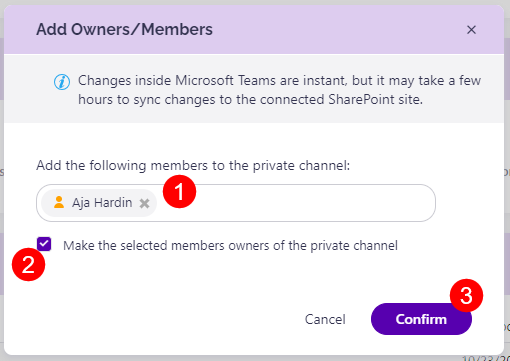
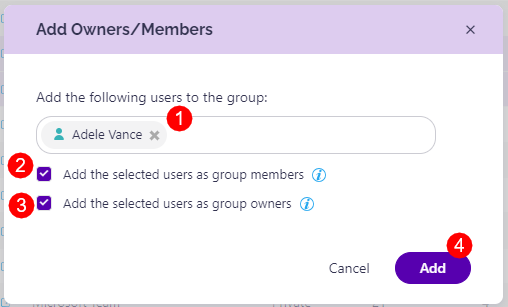
update article

diff --git a/access-management/manage-private-channels.md b/access-management/manage-private-channels.md
@@ -1,16 +1,16 @@
 ---
-description: This article provides information on managing who has access or is an owner of private channels in Microsoft Teams.
+description: This article provides information on managing who has access to or is an owner of private channels in Microsoft Teams.
 ---
 
 # Manage Private Channels Access
 
-This article will help set up and manage who the owners and members are for private channels in Microsoft Teams. 
+This article helps you set up and manage who the owners and members are for private channels in Microsoft Teams. 
 
 {% hint style="warning" %}
-**Please note!**  
+**Please note!**  
 The following users can manage private channels access:
-  * **Global administrator**
-  * **Private channel owner**
+  * **Global administrator**
+  * **Private channel owner**
 {% endhint %}
 
 There are several ways to manage and change the access to private channels from within Syskit Point.
@@ -30,54 +30,60 @@ Another way to access private channels is through the **Sites screen** by taking
 
 * **Click the Sites tile (1)**; located on the home screen of Syskit Point. 
 * **Select the site to manage (2)**; the private channel site is marked with a lock symbol near its name. 
-  * Clicking the selected site opens the details screen.
-* **Under General Information (3)** click the channel name shown under **Related Channel (4)**.  
-  * This opens the details screen of the private channel.
+  * Clicking the selected site opens the details screen.
+* **Under General Information (3)** click the channel name shown under **Related Channel (4)**.  
+  * This opens the details screen of the private channel.
 
-  
+  
 ![Private Channels Access - Sites](../.gitbook/assets/manage-private-channels-sites-access.png)
 
 ## Private Channels Access Options
 
 When the **private channel details screen** opens, two options are listed on the right side of the screen under **Manage**.
 
- * **Add Owners/Members (1)**; allows adding new members to the private channel. The new members can also be set as owners.
- * **Change Owners (2)**; provides the option to remove current owners or promote current members to owners. 
+ * **Add Owners/Members (1)**; allows adding new members to the private channel as well as assigning owners. 
+   * The new members can be set as owners; however **you can also set a user as an owner but not add them as a member**. 
+   * If a user is **set as an owner or a workspace** that they are not a member of, **they are able to complete administrative actions** on the workspace but are **not able to access group content** and chats. 
+ * **Change Owners (2)**; provides the option to remove current owners or promote current members to owners. 
 
- ![Manage Private Channels - Options Panel](../.gitbook/assets/manage-private-channels-options-side.png)
+ ![Manage Private Channels - Options Panel](../.gitbook/assets/manage-private-channels-options-side.png)
 
 Clicking the **Add Owners/Members** button opens a pop-up that provides the following options: 
 
- * **Add members to private channel (1)**; enter the names of the users that should be added as members to the private channel.
- * **Make the selected members owners (2)**; clicking this check box will save the members entered above as the owners of the private channel. 
- * **Confirm when finished (3)**; when all the selected new members have been entered, confirm to save the changes. 
-   * After confirming, a **notification** is sent to **acknowledge** the new changes. 
-   * If the change is unsuccessful, the notification states that the action was **completed with errors** and has **failed**. 
-   * Clicking **check details** will redirect to the **Action Details screen** with a detailed log of all changes. 
+ * **Add members to private channel (1)**; enter the names of the users that should be added as members to the private channel.
+ * **Add the selected users as group members (2)**; clicking this check box saves the user(s) entered above as members of the private channel. 
+   * Members can access everything in the group. 
+ * **Add the selected users as group owners (3)**; clicking this check box saves the user(s) entered above as owners of the private channel. 
+   * Owners manage and handle administrative tasks for the workspace. 
+   * If a user is added only as an owner and not a member, they are able to complete administrative tasks but cannot access group content and chats. 
+ * **Add when finished (4)**; when all the new members and/or owners have been selected, click Add to save the changes. 
+   * After confirming, a **notification** is sent to **acknowledge** the new changes. 
+   * If the change is unsuccessful, the notification states that the action was **completed with errors** and has **failed**. 
+   * Clicking **check details** will redirect to the **Action Details screen** with a detailed log of all changes. 
 
 {% hint style="warning" %}
-**Please note!**  
+**Please note!**  
 To add members to a private channel, the selected user must already be a member of the Microsoft Teams where the private channel is located. 
 {% endhint %}
 
- ![Manage Private Channels - Add Owners/Members options](../.gitbook/assets/manage-private-channels-add-owners-members.png)
+ ![Manage Private Channels - Add Owners/Members options](../.gitbook/assets/manage-private-channels-add-owners-members.png)
 
 Clicking the **Change Owners** button opens a pop-up that provides the following options: 
 
- * **Set the owners (1)**; there are two options available here: 
-   * Enter the names of the users that **should be set as owners** of the private channel.
-   * **Remove the current owners** by clicking the x on the right side of their name. 
- * **Confirm when finished (2)**; when all the changes have been made, confirm to save them. 
-   * After confirming, a **notification** is sent to **acknowledge** the new changes. 
-   * If the change is unsuccessful, the notification states that the action was **completed with errors** and has **failed**. 
-   * Clicking **check details** will redirect to the **Action Details screen** with a detailed log of all changes. 
+ * **Set the owners (1)**; there are two options available here: 
+   * Enter the names of the users that **should be set as owners** of the private channel.
+   * **Remove the current owners** by clicking the x on the right side of their name. 
+ * **Confirm when finished (2)**; when all the changes have been made, confirm to save them. 
+   * After confirming, a **notification** is sent to **acknowledge** the new changes. 
+   * If the change is unsuccessful, the notification states that the action was **completed with errors** and has **failed**. 
+   * Clicking **check details** will redirect to the **Action Details screen** with a detailed log of all changes. 
 
-  {% hint style="warning" %}
-**Please note!**  
+  {% hint style="warning" %}
+**Please note!**  
 To set owners of a private channel, the selected user must already be a member of the Microsoft Teams where the private channel is located. 
 {% endhint %}
 
- ![Manage Private Channels - Change Owners options](../.gitbook/assets/manage-private-channels-change-owners.png)
+ ![Manage Private Channels - Change Owners options](../.gitbook/assets/manage-private-channels-change-owners.png)
 
 
 ### Manage Member and Owner Status
@@ -85,13 +91,13 @@ To set owners of a private channel, the selected user must already be a member o
 Members and Owners can also be managed through the **Members tile (1)** located lower on the private channel screen. 
 
 The **Members tile (1)** shows a list of all members and owners available, and their status can be seen under the **Role column (2)**.
-  * **Selecting an Owner (3)** provides two options on the right side of the screen: **Remove from Channel or Change to Member (4)**.
-  * **Selecting a Member** provides two options on the right side of the screen: **Remove from Channel** or **Promote to Owner**.
+  * **Selecting an Owner (3)** provides two options on the right side of the screen: **Remove from Channel or Change to Member (4)**.
+  * **Selecting a Member** provides two options on the right side of the screen: **Remove from Channel** or **Promote to Owner**.
 
- ![Manage Private Channels - Members Tile](../.gitbook/assets/manage-private-channels-members-tile.png)
+ ![Manage Private Channels - Members Tile](../.gitbook/assets/manage-private-channels-members-tile.png)
 
-  {% hint style="warning" %}
-**Please note!**  
+  {% hint style="warning" %}
+**Please note!**  
 After making these changes to private channels in Syskit Point, it could take up to a few hours for the changes to show in the SharePoint admin center.
 {% endhint %}
 
@@ -107,21 +113,21 @@ The Teams with Private Channels report can be generated through these steps:
 
 The report has two columns, **Name** and **Role**. The column chooser, located on the top right side of the report, offers additional columns that can be added:
 
- * **Email**
- * **URL**
- * **Is External User**
+ * **Email**
+ * **URL**
+ * **Is External User**
 
 The following actions can be completed from this report:
 
- * **Selecting the private channel (1)** provides information on who created the channel and when.
- * **Selecting an owner (2)** provides the options to:
-   * **Remove from Channel**
-   * **Change to Member**
- * **Selecting a member (3)** provides the options to:
-   * **Remove from Channel**
-   * **Promote to Owner** 
+ * **Selecting the private channel (1)** provides information on who created the channel and when.
+ * **Selecting an owner (2)** provides the options to:
+   * **Remove from Channel**
+   * **Change to Member**
+ * **Selecting a member (3)** provides the options to:
+   * **Remove from Channel**
+   * **Promote to Owner** 
 
- ![Manage Private Channels - Members Tile](../.gitbook/assets/manage-private-channels-report.png)
+ ![Manage Private Channels - Members Tile](../.gitbook/assets/manage-private-channels-report.png)
 
 The Microsoft Teams with Private Channels report can be **exported as PDF and XLSX files**. There is also the **option to schedule the report**.
 
